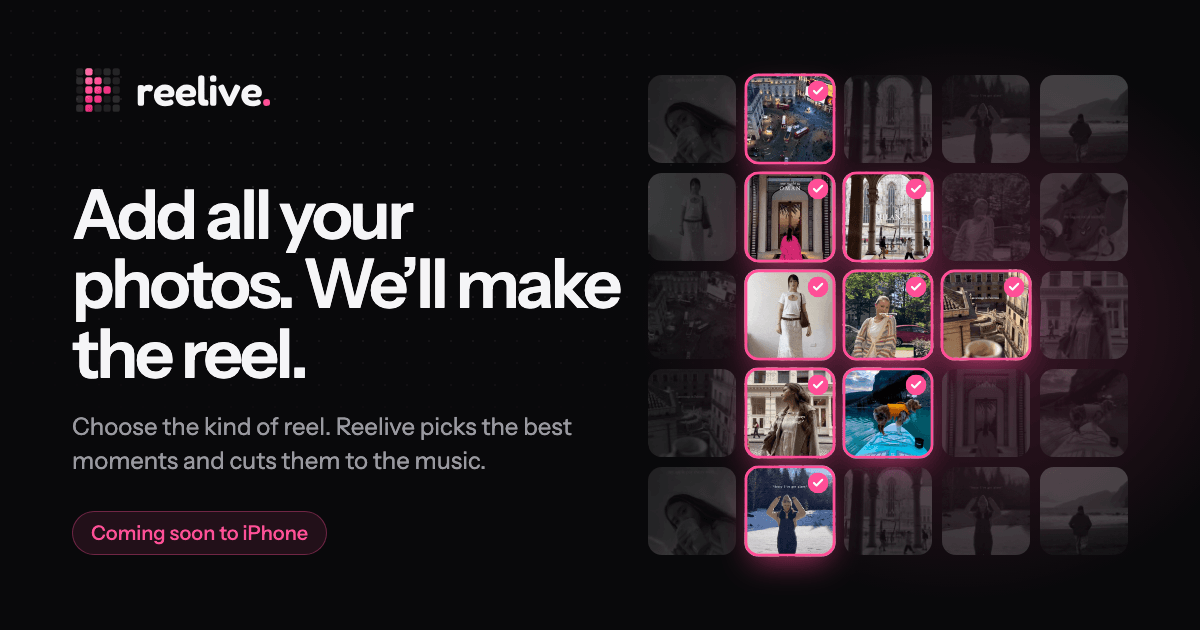
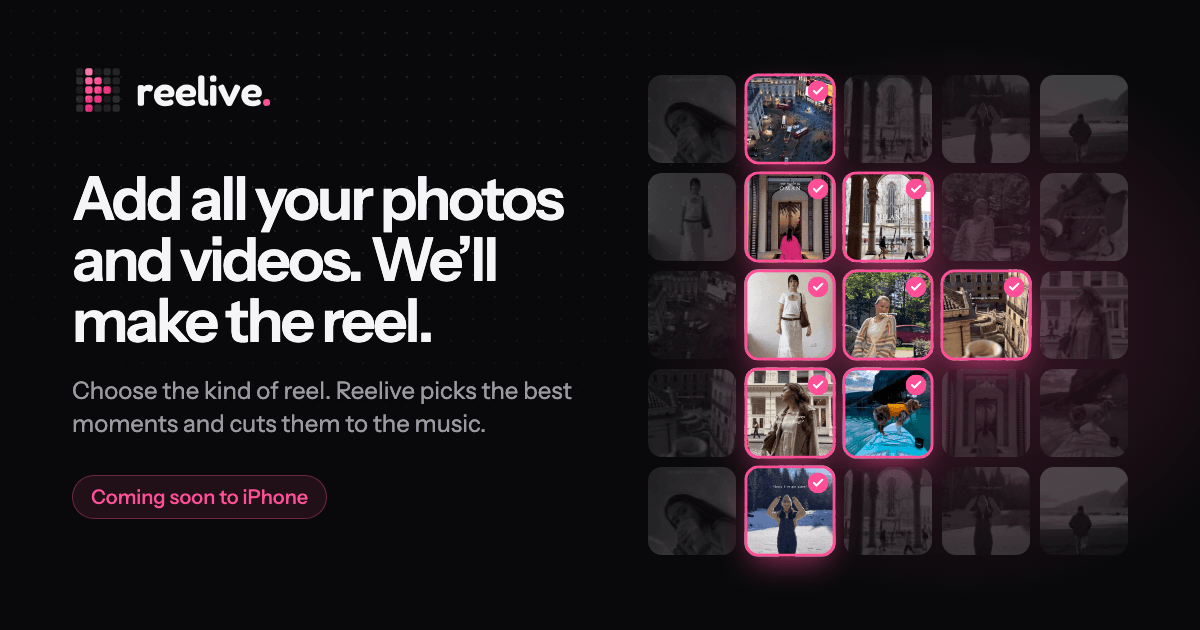
Show that videos go in too
Headline: "Add all your photos and videos. We'll make the reel." Seven of the
grid's tiles are videos with the camera roll's duration badge; the three
picked ones show a pink trim bar for the seconds Reelive used, and the
timeline's clips from videos are tagged with those seconds (0:12–0:14).
Title, footer line and the social image follow the new headline.

Changed region(s): [[0.0617, 0.2714, 0.5242, 0.6333], [0.0617, 0.7238, 0.4008, 0.9048], [0.0617, 0.6635, 0.4933, 0.6937]]

diff --git a/src/styles/landing.css b/src/styles/landing.css
@@ -263,6 +263,55 @@
     opacity: 0;
   }
 }
+/* Video tiles: the duration in the corner, like the camera roll; on a pick, the seconds used. */
+.t.video::before {
+  content: '';
+  position: absolute;
+  inset: 45% 0 0 0;
+  background: linear-gradient(to bottom, transparent, rgba(0, 0, 0, 0.6));
+  pointer-events: none;
+}
+.vid {
+  position: absolute;
+  right: 6px;
+  bottom: 5px;
+  display: inline-flex;
+  align-items: center;
+  gap: 3px;
+  font-size: 10px;
+  font-weight: 600;
+  line-height: 1;
+  color: #fff;
+  text-shadow: 0 1px 3px rgba(0, 0, 0, 0.85);
+  font-variant-numeric: tabular-nums;
+}
+.vid svg,
+.r-cliptag svg {
+  width: 8px;
+  height: 8px;
+  fill: currentColor;
+}
+.trim {
+  position: absolute;
+  left: 7px;
+  right: 7px;
+  bottom: 20px;
+  height: 4px;
+  border-radius: 2px;
+  background: rgba(255, 255, 255, 0.55);
+  opacity: 0;
+  animation: show 6s infinite both;
+  animation-delay: inherit;
+}
+.trim i {
+  position: absolute;
+  top: 0;
+  bottom: 0;
+  min-width: 6px;
+  border-radius: 2px;
+  background: var(--pink);
+  box-shadow: 0 0 6px rgba(255, 79, 151, 0.9);
+}
 .r-flow {
   display: flex;
   flex-direction: column;
@@ -303,6 +352,26 @@
   grid-template-columns: repeat(6, minmax(0, 1fr));
   gap: 4px;
   height: 88px;
+}
+.r-clips > div {
+  position: relative;
+  min-width: 0;
+}
+.r-cliptag {
+  position: absolute;
+  left: 6px;
+  bottom: 6px;
+  display: inline-flex;
+  align-items: center;
+  gap: 4px;
+  padding: 3px 6px;
+  border-radius: 6px;
+  background: rgba(9, 9, 11, 0.75);
+  color: #fff;
+  font-size: 11px;
+  font-weight: 600;
+  line-height: 1;
+  font-variant-numeric: tabular-nums;
 }
 .r-clips img {
   width: 100%;
@@ -776,6 +845,25 @@
     height: 64px;
     border-radius: 6px;
   }
+  .r-cliptag {
+    left: 4px;
+    bottom: 4px;
+    padding: 3px 4px;
+  }
+  .r-cliptag span {
+    display: none;
+  }
+  .vid {
+    right: 4px;
+    bottom: 4px;
+    font-size: 9px;
+  }
+  .trim {
+    left: 5px;
+    right: 5px;
+    bottom: 16px;
+    height: 3px;
+  }
   .r-wave {
     height: 34px;
     gap: 2px;
@@ -844,7 +932,8 @@
     filter: grayscale(1);
   }
   .t.on::after,
-  .ck {
+  .ck,
+  .trim {
     opacity: 1;
   }
   .r-head {
